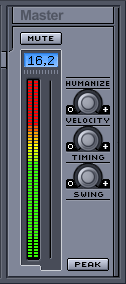
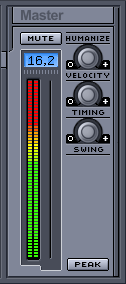
Probability 2.0: Update mixer line graphics

Changed region(s): [[0.5238, 0.1127, 0.881, 0.7042]]

diff --git a/src/gui/src/Mixer/MixerLine.cpp b/src/gui/src/Mixer/MixerLine.cpp
@@ -686,22 +686,22 @@ MasterMixerLine::MasterMixerLine(QWidget* parent)
 	m_pPeakLCD->setPalette( lcdPalette );
 
 	m_pHumanizeVelocityRotary = new Rotary( this, Rotary::TYPE_NORMAL, trUtf8( "Humanize velocity" ), false, false );
-	m_pHumanizeVelocityRotary->move( 74, 88 -64 );
+	m_pHumanizeVelocityRotary->move( 74, 88 -45 );
 	connect( m_pHumanizeVelocityRotary, SIGNAL( valueChanged(Rotary*) ), this, SLOT( rotaryChanged(Rotary*) ) );
 	m_pHumanizeVelocityRotary->setAction( new Action("HUMANIZE_VELOCITY_ABSOLUTE") );
 
 	m_pHumanizeTimeRotary = new Rotary( this, Rotary::TYPE_NORMAL, trUtf8( "Humanize time" ), false, false );
-	m_pHumanizeTimeRotary->move( 74, 125 -64);
+	m_pHumanizeTimeRotary->move( 74, 125 -45);
 	connect( m_pHumanizeTimeRotary, SIGNAL( valueChanged(Rotary*) ), this, SLOT( rotaryChanged(Rotary*) ) );
 	m_pHumanizeTimeRotary->setAction( new Action("HUMANIZE_TIME_ABSOLUTE") );
 
 	m_pSwingRotary = new Rotary( this,  Rotary::TYPE_NORMAL, trUtf8( "Swing" ), false, false );
-	m_pSwingRotary->move( 74, 162 -64);
+	m_pSwingRotary->move( 74, 162 -45);
 	connect( m_pSwingRotary, SIGNAL( valueChanged(Rotary*) ), this, SLOT( rotaryChanged(Rotary*) ) );
 	m_pSwingRotary->setAction( new Action("SWING_ABSOLUTE") );
 
 	m_pFillValueRotary = new Rotary( this,  Rotary::TYPE_NORMAL, trUtf8( "Fill" ), false, false );
-	m_pFillValueRotary->move( 74, 162 );
+	m_pFillValueRotary->move( 74, 125 +64 );
 	connect( m_pFillValueRotary, SIGNAL( valueChanged(Rotary*) ), this, SLOT( rotaryChanged(Rotary*) ) );
 	m_pFillValueRotary->setAction( new Action("FILL_VALUE_ABSOLUTE") );
 
